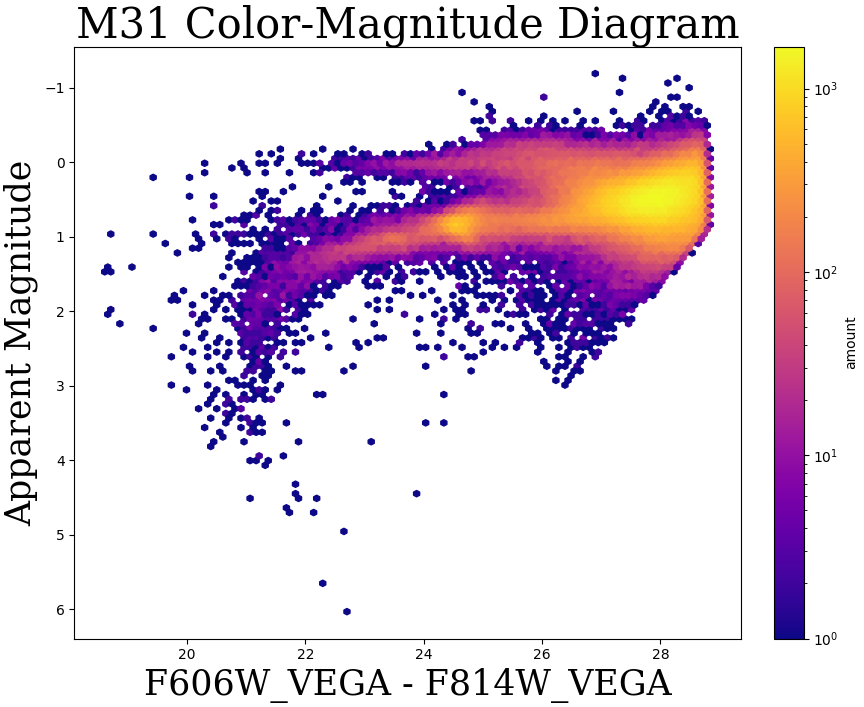
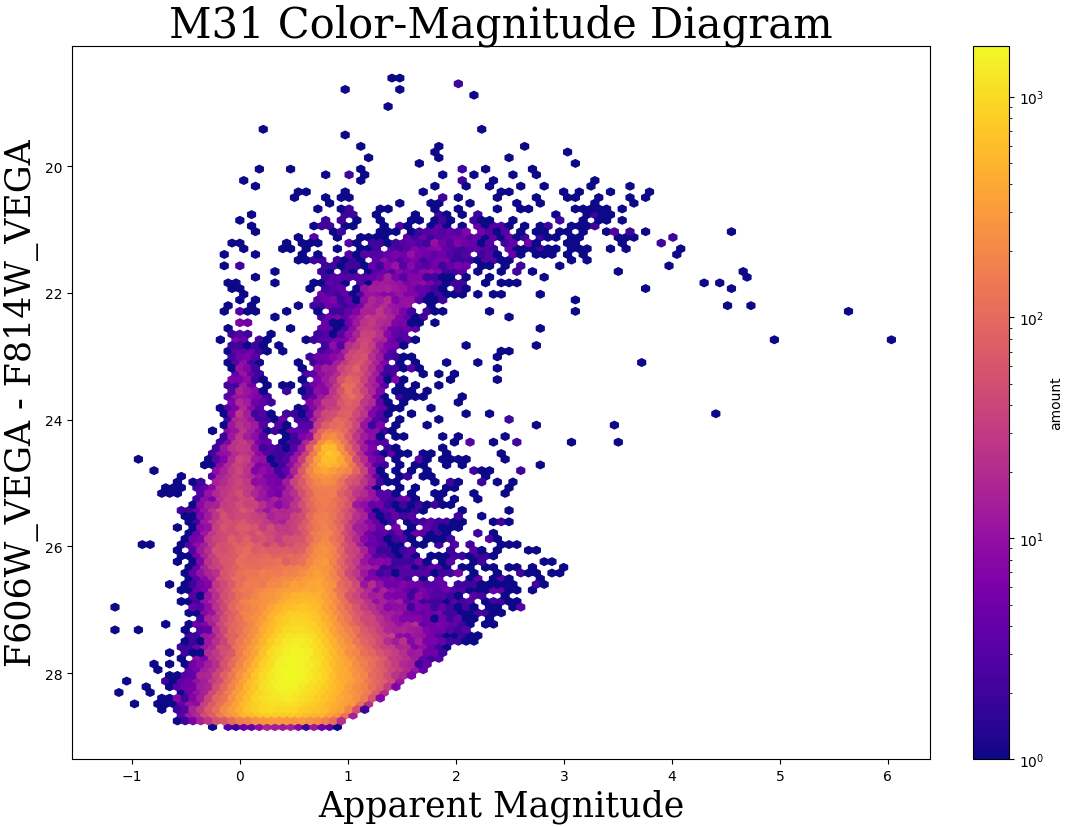
I re-organized the plotting of CSMF errors, shading the regions of error for each of the 3 fields. Will be adding more fields soon.

diff --git a/Ben/Cumulative_M31.py b/Ben/Cumulative_M31.py
@@ -11,7 +11,7 @@ linear_age_startpt = 10**age_startpt
 linear_mean_age = 10**mean_age
 LMA_gyr = linear_mean_age / (1e9)
 
-#barswidth = np.abs(linear_age_endpt - linear_age_startpt)
+barswidth_gyr = np.abs(linear_age_endpt - linear_age_startpt) / (1e9)
 
 cumulative = data[:,12]
 
@@ -23,17 +23,48 @@ errneg_csmf = np.where(errneg_csmf >= cumulative, cumulative, errneg_csmf)
 
 verterr = np.array([errneg_csmf, errpos_csmf])
 
-plt.figure(figsize = (15,15), constrained_layout = True)
+sort = np.argsort(LMA_gyr)
+LMA_gyr_sort = LMA_gyr[sort]
+cumulative_sort = cumulative[sort]
 
-plt.bar(LMA_gyr, cumulative, width = barswidth_gyr, align = 'center',
-        color = 'indigo', edgecolor = 'indigo', alpha = 0.3, label = 'M31 Cumulative Stellar Mass Fraction')
+errpos_sort = (cumulative + errpos_csmf)[sort]
+errneg_sort = (cumulative - errneg_csmf)[sort]
 
-plt.errorbar(LMA_gyr, cumulative, yerr = verterr, fmt = '.',markersize = 4,
-             ecolor = 'teal',elinewidth = 1.2, capsize = 2, zorder = 3)
+right_x = LMA_gyr_sort[-1]
+right_errpos = errpos_sort[-1]
+right_errneg = errneg_sort[-1]
+half_barswidth_gyr = barswidth_gyr[sort][-1] / 2
+right_xbar = right_x + half_barswidth_gyr
+
+
+plt.figure(figsize = (5, 5), constrained_layout = True)
+
+plt.errorbar(LMA_gyr_sort, cumulative_sort, yerr = verterr[:,sort], fmt = 'none', markersize = 4,
+        ecolor = 'teal', elinewidth = 1.2, capsize = 2, zorder = 3, label = 'CSMF error')
+
+LMA_extended = np.append(LMA_gyr_sort, right_xbar)
+
+errpos_extended = np.append(errpos_sort, right_errpos)
+errneg_extended = np.append(errneg_sort, right_errneg)
+
+plt.fill_between(LMA_extended, errneg_extended, errpos_extended, color='purple', alpha=0.1)
+
+plt.plot(LMA_extended, errpos_extended, color='blue', linewidth=1.5, label='Upper Error Best Fit')
+plt.plot(LMA_extended, errneg_extended, color='red', linewidth=1.5, label='Lower Error Best Fit')
 
 plt.xlabel("Linear mean age (in Gyr)")
 plt.ylabel("Cumulative Stellar Mass Fraction")
 plt.title("M31 CSMF/Age")
 
+plt.legend()
+
 plt.show()
 
+
+'''plt.figure(figsize = (15,15), constrained_layout = True)
+
+plt.bar(LMA_gyr, cumulative, width = barswidth_gyr, align = 'center',
+        color = 'indigo', edgecolor = 'indigo', alpha = 0.3, label = 'M31 Cumulative Stellar Mass Fraction')
+
+plt.errorbar(LMA_gyr, cumulative, yerr = verterr, fmt = '.',markersize = 4,
+             ecolor = 'teal',elinewidth = 1.2, capsize = 2, zorder = 3)'''

diff --git a/Ben/Cumulative_ANDIV.py b/Ben/Cumulative_ANDIV.py
@@ -11,7 +11,7 @@ linear_age_startpt = 10**age_startpt
 linear_mean_age = 10**mean_age
 LMA_gyr = linear_mean_age / (1e9)
 
-barswidth = np.abs(linear_age_endpt - linear_age_startpt) / 1e9
+barswidth_gyr = np.abs(linear_age_endpt - linear_age_startpt) / (1e9)
 
 cumulative = data[:,12]
 
@@ -23,16 +23,39 @@ errneg_csmf = np.where(errneg_csmf >= cumulative, cumulative, errneg_csmf)
 
 verterr = np.array([errneg_csmf, errpos_csmf])
 
-plt.figure(figsize = (15,15), constrained_layout = True)
+sort = np.argsort(LMA_gyr)
+LMA_gyr_sort = LMA_gyr[sort]
+cumulative_sort = cumulative[sort]
 
-plt.bar(LMA_gyr, cumulative, width = barswidth, align = 'center',
-        color = 'indigo', edgecolor = 'indigo', alpha = 0.3, label = 'ANDIV Cumulative Stellar Mass Fraction')
+errpos_sort = (cumulative + errpos_csmf)[sort]
+errneg_sort = (cumulative - errneg_csmf)[sort]
 
-plt.errorbar(LMA_gyr, cumulative, yerr = verterr, fmt = '.',markersize = 4,
-             ecolor = 'teal',elinewidth = 1.2, capsize = 2, zorder = 3)
+right_x = LMA_gyr_sort[-1]
+right_errpos = errpos_sort[-1]
+right_errneg = errneg_sort[-1]
+half_barswidth_gyr = barswidth_gyr[sort][-1] / 2
+right_xbar = right_x + half_barswidth_gyr
+
+
+plt.figure(figsize = (5, 5), constrained_layout = True)
+
+plt.errorbar(LMA_gyr_sort, cumulative_sort, yerr = verterr[:,sort], fmt = 'none', markersize = 4,
+        ecolor = 'teal', elinewidth = 1.2, capsize = 2, zorder = 3, label = 'CSMF error')
+
+LMA_extended = np.append(LMA_gyr_sort, right_xbar)
+
+errpos_extended = np.append(errpos_sort, right_errpos)
+errneg_extended = np.append(errneg_sort, right_errneg)
+
+plt.fill_between(LMA_extended, errneg_extended, errpos_extended, color='hotpink', alpha=0.1)
+
+plt.plot(LMA_extended, errpos_extended, color='orange', linewidth=1.5, label='Upper Error Best Fit')
+plt.plot(LMA_extended, errneg_extended, color='cyan', linewidth=1.5, label='Lower Error Best Fit')
 
 plt.xlabel("Linear mean age (in Gyr)")
 plt.ylabel("Cumulative Stellar Mass Fraction")
 plt.title("ANDIV CSMF/Age")
+
+plt.legend()
 
 plt.show()

diff --git a/Ben/Cumulative_N205.py b/Ben/Cumulative_N205.py
@@ -11,7 +11,7 @@ linear_age_startpt = 10**age_startpt
 linear_mean_age = 10**mean_age
 LMA_gyr = linear_mean_age / (1e9)
 
-barswidth = np.abs(linear_age_endpt - linear_age_startpt) / 1e9
+barswidth_gyr = np.abs(linear_age_endpt - linear_age_startpt) / (1e9)
 
 cumulative = data[:,12]
 
@@ -23,16 +23,40 @@ errneg_csmf = np.where(errneg_csmf >= cumulative, cumulative, errneg_csmf)
 
 verterr = np.array([errneg_csmf, errpos_csmf])
 
-plt.figure(figsize = (15,15), constrained_layout = True)
+sort = np.argsort(LMA_gyr)
+LMA_gyr_sort = LMA_gyr[sort]
+cumulative_sort = cumulative[sort]
 
-plt.bar(LMA_gyr, cumulative, width = barswidth, align = 'center',
-        color = 'indigo', edgecolor = 'indigo', alpha = 0.3, label = 'N205 Cumulative Stellar Mass Fraction')
+errpos_sort = (cumulative + errpos_csmf)[sort]
+errneg_sort = (cumulative - errneg_csmf)[sort]
 
-plt.errorbar(LMA_gyr, cumulative, yerr = verterr, fmt = '.',markersize = 4,
-             ecolor = 'teal',elinewidth = 1.2, capsize = 2, zorder = 3)
+right_x = LMA_gyr_sort[-1]
+right_errpos = errpos_sort[-1]
+right_errneg = errneg_sort[-1]
+half_barswidth_gyr = barswidth_gyr[sort][-1] / 2
+right_xbar = right_x + half_barswidth_gyr
+
+
+plt.figure(figsize = (5, 5), constrained_layout = True)
+
+plt.errorbar(LMA_gyr_sort, cumulative_sort, yerr = verterr[:,sort], fmt = 'none', markersize = 4,
+        ecolor = 'teal', elinewidth = 1.2, capsize = 2, zorder = 3, label = 'CSMF error')
+
+LMA_extended = np.append(LMA_gyr_sort, right_xbar)
+
+errpos_extended = np.append(errpos_sort, right_errpos)
+errneg_extended = np.append(errneg_sort, right_errneg)
+
+plt.fill_between(LMA_extended, errneg_extended, errpos_extended, color='green', alpha=0.1)
+
+plt.plot(LMA_extended, errpos_extended, color='blue', linewidth=1.5, label='Upper Error Best Fit')
+plt.plot(LMA_extended, errneg_extended, color='yellow', linewidth=1.5, label='Lower Error Best Fit')
 
 plt.xlabel("Linear mean age (in Gyr)")
 plt.ylabel("Cumulative Stellar Mass Fraction")
 plt.title("N205 CSMF/Age")
 
+plt.legend()
+
 plt.show()
+

diff --git a/Ben/CMD_ANDIV.py b/Ben/CMD_ANDIV.py
@@ -14,12 +14,12 @@ mag = data2['F814W_VEGA']
 
 fig, ax = plt.subplots(figsize = (15,15), constrained_layout = True)
 
-ax.set_xlabel("F606W_VEGA - F814_VEGA", fontfamily = 'serif', fontsize = 25)
-ax.set_ylabel("Apparent Magnitude", fontfamily = 'serif', fontsize = 25)
+ax.set_xlabel("Apparent Magnitude", fontfamily = 'serif', fontsize = 25)
+ax.set_ylabel("F606W_VEGA - F814_VEGA", fontfamily = 'serif', fontsize = 25)
 ax.invert_yaxis()
 ax.set_title("ANDIV Color Magnitude Diagram", fontfamily = 'serif', fontsize = 30)
 
-graph = ax.hexbin(mag, color, gridsize = 100, bins = 'log', cmap = 'inferno')
+graph = ax.hexbin(color, mag, gridsize = 100, bins = 'log', cmap = 'inferno')
 bar_color = fig.colorbar(graph, ax = ax)
 bar_color.set_label('amount')
 plt.show()

diff --git a/Ben/CMD_M31.py b/Ben/CMD_M31.py
@@ -14,12 +14,12 @@ mag = data2['F814W_VEGA']
 
 fig, ax = plt.subplots(figsize=(15, 15), constrained_layout=True)
 
-ax.set_xlabel("F606W_VEGA - F814W_VEGA", fontfamily = 'serif', fontsize = 25)
-ax.set_ylabel("Apparent Magnitude", fontfamily = 'serif', fontsize = 25)
+ax.set_xlabel("Apparent Magnitude", fontfamily = 'serif', fontsize = 25)
+ax.set_ylabel("F606W_VEGA - F814W_VEGA", fontfamily = 'serif', fontsize = 25)
 ax.invert_yaxis()
 ax.set_title("M31 Color-Magnitude Diagram", fontfamily = 'serif', fontsize = 30)
 
-graph = ax.hexbin(mag, color, gridsize=100, bins = 'log', cmap = 'plasma')
+graph = ax.hexbin(color, mag, gridsize=100, bins = 'log', cmap = 'plasma')
 bar_color = fig.colorbar(graph, ax=ax)
 bar_color.set_label('amount')
 plt.show()

diff --git a/Ben/CMD_N205.py b/Ben/CMD_N205.py
@@ -1,4 +1,4 @@
-#CMD for ANDIV
+#CMD for N205
 from astropy.io import fits
 import matplotlib.pyplot as plt
 import numpy as np
@@ -19,7 +19,7 @@ ax.set_ylabel("Apparent Magnitude", fontfamily = 'serif', fontsize = 25)
 ax.invert_yaxis()
 ax.set_title("N205 Color Magnitude Diagram", fontfamily = 'serif', fontsize = 30)
 
-graph = ax.hexbin(mag, color, gridsize = 100, bins = 'log', cmap = 'magma')
+graph = ax.hexbin(color, mag, gridsize = 100, bins = 'log', cmap = 'magma')
 bar_color = fig.colorbar(graph, ax = ax)
 bar_color.set_label('amount')
 plt.show()
